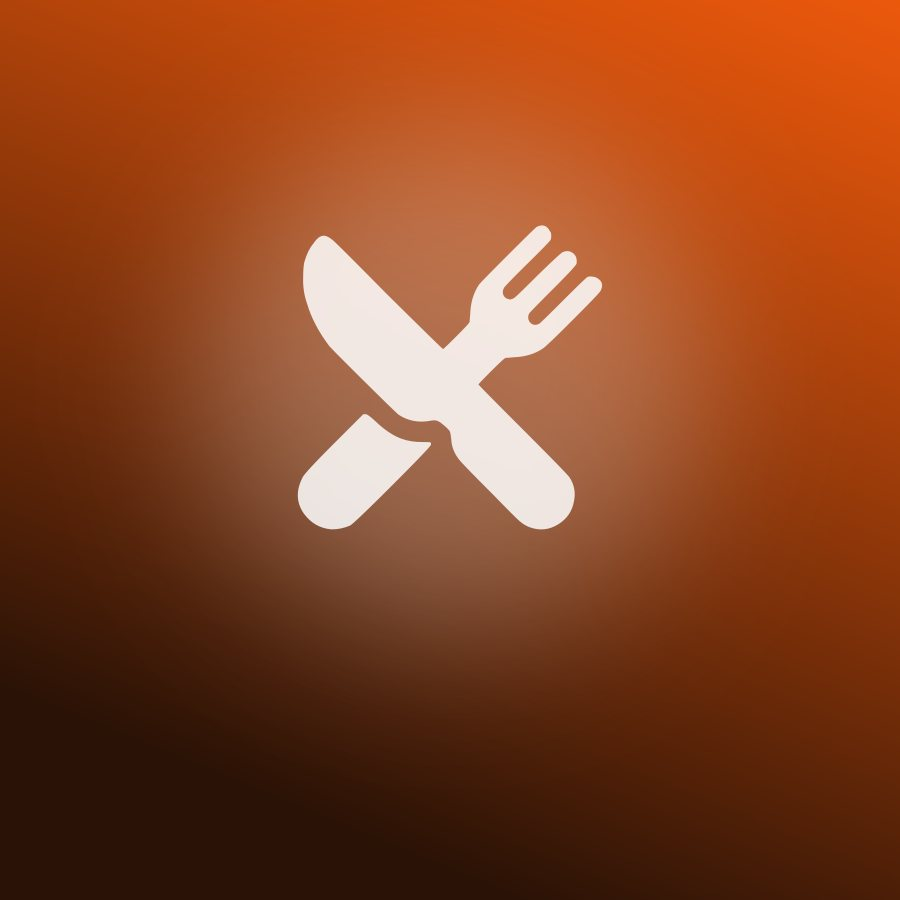
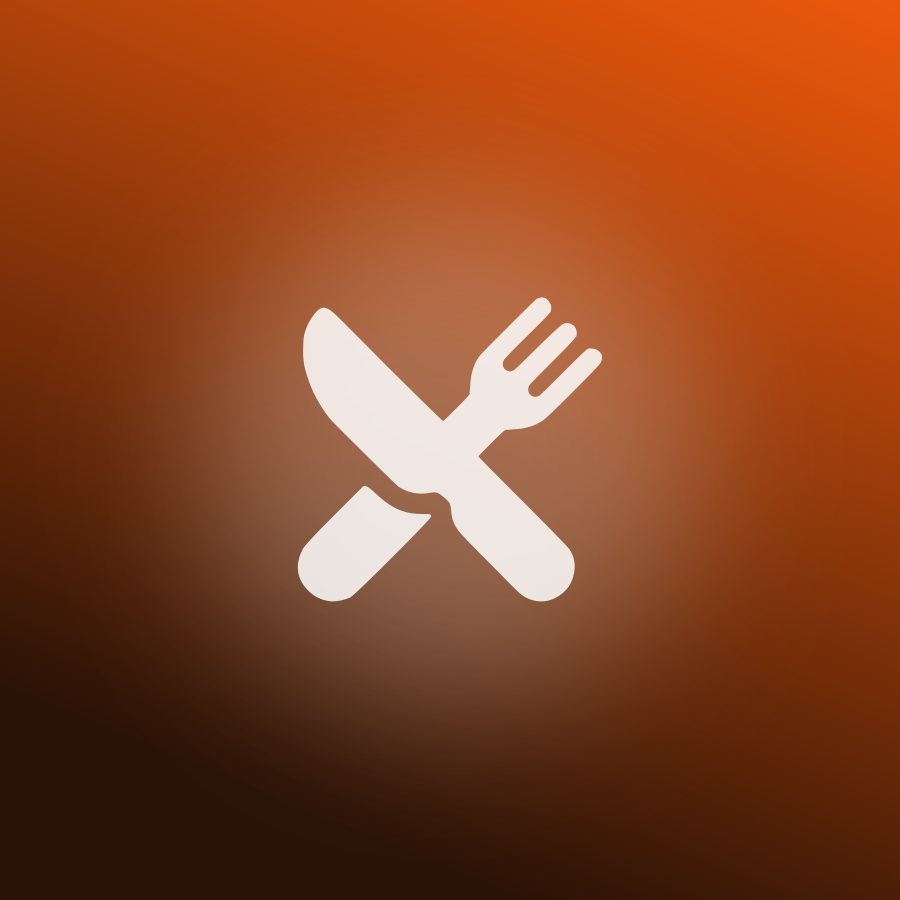
Admins edit the app's own ideas in the app; group sizes read right (#71)
Admins fix the launch ideas from the idea page (the pencil), in the same
form as posting, without signing in as @system:
- Migration: users.official marks the app's own account (only the server
  sets it); admins may see, edit and re-tag official ideas, and nothing
  else of anyone's; activities.import_hash (server-only, like import_key)
- The form, editing an official idea: it keeps its review status (no
  publish choice, promise or same-place check), a photo is optional, and
  there's no delete or unpublish (retire through the files)
- The import marks @system official, stores a fingerprint of what it
  saved, and leaves an idea changed in the app alone (listed; --force
  puts the file's version back). "ACTIVE" in the files is saved as an
  activity (OTHER), like the posting form, which asks effort separately

Also:
- Group size: "2 people", "2–6 people", "4+ people", "Any group size"
  (peopleLabel), not "2 - 2 people"
- Tiles: the icon is centered; the active tile follows effort (a workout)
  or sports and adventure tags, now that Active isn't a type

Changed region(s): [[0.3111, 0.2489, 0.6844, 0.7778], [0.4044, 0.1556, 0.5911, 0.2178]]

diff --git a/mobile-client/app/create/index.tsx b/mobile-client/app/create/index.tsx
@@ -53,11 +53,13 @@ import Ionicons from "@expo/vector-icons/build/Ionicons";
 
 import {supabase} from "@/src/supabase";
 import {useMyIdeasStore} from "@/src/store/useMyIdeasStore";
+import {useProfileStore} from "@/src/store/useProfileStore";
 import {useSavedStore} from "@/src/store/useSavedStore";
 import {usePrefsStore} from "@/src/store/usePrefsStore";
 import {SUSPENDED_MESSAGE, useAccountStore} from "@/src/store/useAccountStore";
 import {confirmDeleteIdea, confirmUnpublishIdea} from "@/src/lib/ideaActions";
 import {POSTER_PROMISE} from "@/src/lib/ideaGuidelines";
+import {peopleLabel} from "@/src/lib/ideas";
 import {RISK_LABELS, SAFETY_NOTE_MAX, type RiskLabel} from "@/src/lib/safety";
 import {WEATHER_NEEDS_OPTIONS, type WeatherNeeds} from "@/src/lib/weatherRules";
 import {TIME_OF_DAY_LABEL, type TimeOfDay} from "@/src/lib/timeOfDay";
@@ -285,6 +287,8 @@ const Hint = ({text, red = false}: {text: string; red?: boolean}) => (
 interface EditingOriginal {
   visibility: BaseActivity["visibility"];
   imageUrls: string[];
+  /** Not yours: one of the app's own ideas, edited by an admin (#71) */
+  official: boolean;
 }
 
 // ─── The screen ────────────────────────────────────────────────────────────────
@@ -295,6 +299,10 @@ export default function CreateScreen() {
   const {ideaId} = useLocalSearchParams<{ideaId?: string}>();
   const editingId = ideaId ? Number(ideaId) : null;
   const [original, setOriginal] = useState<EditingOriginal | null>(null);
+  // An admin fixing one of the app's own ideas (the launch set, #71): it
+  // keeps its review status, a photo is optional, and there's no promise
+  // or publish choice (the database lets admins edit only these)
+  const officialEdit = !!original?.official;
   const [isLoadingIdea, setIsLoadingIdea] = useState(!!editingId);
   // Remounts the tag selector once the idea's tags have loaded
   const [tagsKey, setTagsKey] = useState(0);
@@ -663,7 +671,11 @@ export default function CreateScreen() {
       setTagsKey((k) => k + 1);
       // Saving keeps a private idea private; everything else goes to review
       setVisibility(data.visibility === "PRIVATE" ? "PRIVATE" : "PENDING_REVIEW");
-      setOriginal({visibility: data.visibility, imageUrls: data.image_urls ?? []});
+      setOriginal({
+        visibility: data.visibility,
+        imageUrls: data.image_urls ?? [],
+        official: data.user_id !== useProfileStore.getState().userId,
+      });
       setStep(REVIEW);
       setIsLoadingIdea(false);
     };
@@ -694,7 +706,7 @@ export default function CreateScreen() {
   /** Everything still unanswered */
   const findMissing = (): string[] => {
     const out: string[] = [];
-    if (!imageUri) out.push("image");
+    if (!imageUri && !officialEdit) out.push("image");
     if (!title.trim()) out.push("title");
     if (!whereMode) out.push("where");
     if (whereMode === "PLACE" && !place) out.push("place");
@@ -864,7 +876,7 @@ export default function CreateScreen() {
       return;
     }
 
-    if (visibility === "PENDING_REVIEW" && suspended) {
+    if (visibility === "PENDING_REVIEW" && suspended && !officialEdit) {
       const keepPrivate = await confirm({
         title: "You can't publish right now",
         message: SUSPENDED_MESSAGE,
@@ -876,14 +888,14 @@ export default function CreateScreen() {
     }
 
     // Publishing needs the poster's promise (private ideas don't)
-    if (visibility === "PENDING_REVIEW" && !promised) {
+    if (visibility === "PENDING_REVIEW" && !promised && !officialEdit) {
       setMissingFields(["promise"]);
       warn();
       return;
     }
 
     // Publishing at your own earlier pin: is it a place that's public now?
-    if (publishingAtPlace && place?.kind === "existing") {
+    if (publishingAtPlace && place?.kind === "existing" && !officialEdit) {
       let check = shownCheck;
       if (!check) {
         try {
@@ -920,11 +932,12 @@ export default function CreateScreen() {
       if (modality === "GO_OUT" && place) {
         venueId = place.kind === "existing" ? place.venueId : await addPlace(place);
       }
-      if (!imageUri) throw new Error("Image missing during upload phase");
+      if (!imageUri && !officialEdit) throw new Error("Image missing during upload phase");
 
-      // 2. Photo: upload only if it's new (an edit keeps the existing URL)
+      // 2. Photo: upload only if it's new (an edit keeps the existing URL;
+      //    an official idea can still have none)
       let imageUrls: string[];
-      const photoChanged = !original || imageUri !== original.imageUrls[0];
+      const photoChanged = !!imageUri && (!original || imageUri !== original.imageUrls[0]);
       if (photoChanged) {
         const fileName = `${Date.now()}-${Math.random().toString(36).substring(7)}.jpg`;
         const response = await fetch(imageUri);
@@ -935,7 +948,7 @@ export default function CreateScreen() {
         if (uploadError) throw uploadError;
         imageUrls = [supabase.storage.from("activities").getPublicUrl(fileName).data.publicUrl];
       } else {
-        imageUrls = original!.imageUrls;
+        imageUrls = original?.imageUrls ?? [];
       }
 
       const fields = {
@@ -963,7 +976,8 @@ export default function CreateScreen() {
         min_age: dbMinAge,
         risk_labels: dbRiskLabels,
         safety_note: safetyNote.trim() ? safetyNote.trim().slice(0, SAFETY_NOTE_MAX) : null,
-        visibility,
+        // (an official idea keeps its review status)
+        ...(officialEdit ? {} : {visibility}),
       };
 
       // 3. The idea itself
@@ -973,7 +987,11 @@ export default function CreateScreen() {
           .from("activities")
           // Resubmitting starts a fresh review; keeping it private keeps
           // the last reviewer note for reference
-          .update(visibility === "PENDING_REVIEW" ? {...fields, moderation_note: null, moderation_rules: null} : fields)
+          .update(
+            visibility === "PENDING_REVIEW" && !officialEdit
+              ? {...fields, moderation_note: null, moderation_rules: null}
+              : fields,
+          )
           .eq("idea_id", editingId)
           .select("idea_id")
           .maybeSingle();
@@ -1036,7 +1054,9 @@ export default function CreateScreen() {
       if (editingId) useSavedStore.getState().reload();
 
       // Close the screen, then say so from the one below
-      const done = editingId
+      const done = officialEdit
+        ? ["Changes saved", "It keeps its review status"]
+        : editingId
         ? visibility === "PRIVATE"
           ? ["Changes saved", "Only you can see it"]
           : ["Sent for review", "Live again once it's approved"]
@@ -1081,7 +1101,7 @@ export default function CreateScreen() {
   const peopleText =
     groupSize === "CUSTOM"
       ? minPeople && maxPeople
-        ? `${minPeople}–${maxPeople} people`
+        ? peopleLabel(Number(minPeople), Number(maxPeople))
         : null
       : (PEOPLE_OPTIONS.find((o) => o.value === groupSize)?.label.toLowerCase() ?? null);
   const ageText = ageChoice === 0 ? "all ages" : ageChoice === "OTHER" ? (minAge ? `${minAge}+` : null) : ageChoice ? `${ageChoice}+` : null;
@@ -1919,6 +1939,15 @@ export default function CreateScreen() {
         })}
       </View>
 
+      {officialEdit ? (
+        <View className="flex-row gap-2 bg-zinc-900 border border-zinc-800 rounded-2xl p-3 mb-3">
+          <Ionicons name="shield-checkmark-outline" size={18} color="#a1a1aa" />
+          <Text className="text-zinc-300 text-sm flex-1">
+            {"One of Venture's own ideas. Saving keeps its review status, and the next import leaves your changes alone."}
+          </Text>
+        </View>
+      ) : (
+      <>
       {wasPublished && (
         <View className="flex-row gap-2 bg-amber-500/10 border border-amber-500/30 rounded-2xl p-3 mb-3">
           <Ionicons name="information-circle" size={18} color="#fbbf24" />
@@ -2049,10 +2078,12 @@ export default function CreateScreen() {
         </Pressable>
       )}
       {missing("promise") && <Hint red text="Tick this to send it for review." />}
+      </>
+      )}
 
       {/* EDITING: delete it (live ideas are unpublished first: deleting would
           pull them out of other people's dates and saved lists) */}
-      {editingId && original && (
+      {editingId && original && !officialEdit && (
         <View className="items-center gap-2 mt-6">
           {original.visibility === "PUBLISHED" ? (
             <>
@@ -2103,7 +2134,9 @@ export default function CreateScreen() {
 
   const primary =
     key === "review"
-      ? !editingId
+      ? officialEdit
+        ? "Save changes"
+        : !editingId
         ? visibility === "PRIVATE"
           ? "Save idea"
           : "Submit for review"

diff --git a/mobile-client/app/(tabs)/explore/detail/[id].tsx b/mobile-client/app/(tabs)/explore/detail/[id].tsx
@@ -26,7 +26,7 @@ import {showIdeaMenu} from "@/src/lib/reportIdea";
 import {usePlanSeedStore} from "@/src/store/usePlanSeedStore";
 import {useBuilderStore} from "@/src/store/useBuilderStore";
 import {StatusChip} from "@/components/ideas/IdeaRows";
-import {IDEA_STATUS} from "@/src/lib/ideas";
+import {IDEA_STATUS, peopleLabel} from "@/src/lib/ideas";
 import {WEATHER_NEEDS_OPTIONS} from "@/src/lib/weatherRules";
 import {normalizeTimeOfDay, TIME_OF_DAY_LABEL} from "@/src/lib/timeOfDay";
 import PlaceHours from "@/components/ideas/PlaceHours";
@@ -103,7 +103,7 @@ export default function IdeaDetailScreen() {
             *,
             venues ( venue_id, created_by, name, address, coordinates, opening_hours, hours_checked_at, hours_source, access_note,
               pinned_by:users ( username ) ),
-            users!activities_user_id_fkey ( username ),
+            users!activities_user_id_fkey ( username, official ),
             activity_tags (
               tags ( name )
             )
@@ -197,6 +197,8 @@ export default function IdeaDetailScreen() {
     : null;
   // Your own idea: say where it stands, and offer to edit it
   const isMine = !!myUserId && idea.user_id === myUserId;
+  // The app's own ideas (the launch set, #71): admins edit them here
+  const canEdit = isMine || (staffRole === "ADMIN" && !!idea.users?.official);
   // Staff review: asked for (queue / menu), or tools on and it needs a look
   // (in review, sent back, rejected, or reported). Never on private ideas
   const showReview =
@@ -471,7 +473,7 @@ export default function IdeaDetailScreen() {
                 </Text>
               </View>
               <Text className="text-white font-bold text-lg">
-                {idea.min_people} - {idea.max_people} people
+                {peopleLabel(idea.min_people, idea.max_people)}
               </Text>
             </View>
 
@@ -673,11 +675,11 @@ export default function IdeaDetailScreen() {
         </Pressable>
       </View>
 
-      {/* TOP RIGHT: save, then edit (your own ideas) or ••• (anyone else's)
-          in the corner */}
+      {/* TOP RIGHT: save, then edit (your own ideas, or the app's own for
+          admins) or ••• (anyone else's) in the corner */}
       <View className="absolute top-15 right-4 z-50 flex-row gap-2">
         <SaveButton ideaId={idea.idea_id} size={44} variant="glass" />
-        {isMine ? (
+        {canEdit ? (
           <Pressable
             onPress={editIdea}
             accessibilityRole="button"

diff --git a/mobile-client/src/lib/ideas.ts b/mobile-client/src/lib/ideas.ts
@@ -13,13 +13,14 @@ type IconName = React.ComponentProps<typeof Ionicons>["name"];
 export const IDEA_SUMMARY_COLUMNS = `
   idea_id, title, image_urls, est_price_per_person, est_duration_minutes,
   modality, visibility, moderation_note, moderation_rules, created_at, time_of_day,
-  activity_type, environment,
+  activity_type, environment, exertion,
   venues ( name )
 `;
 
 /** The idea's photo, sized for `displayWidth` points; its kind's tile without one */
 export function ideaImage(
-  idea: Pick<IdeaSummary, "image_urls"> & Partial<Pick<IdeaSummary, "idea_id" | "modality" | "activity_type" | "environment">>,
+  idea: Pick<IdeaSummary, "image_urls"> &
+    Partial<Pick<IdeaSummary, "idea_id" | "modality" | "activity_type" | "environment" | "exertion">>,
   displayWidth: number = IMAGE_SIZE.thumb,
 ): IdeaPicture {
   const photo = idea.image_urls?.[0];
@@ -30,6 +31,19 @@ export function ideaImage(
 export function ideaPrice(idea: Pick<IdeaSummary, "est_price_per_person">) {
   const price = Number(idea.est_price_per_person) || 0;
   return price === 0 ? "Free" : `${formatMoney(price)} pp`;
+}
+
+/** The most people an idea is stored with when it's for any size of group */
+const ANY_GROUP = 20;
+
+/** "2 people", "2–6 people", "4+ people", "Any group size" */
+export function peopleLabel(min: number | null | undefined, max: number | null | undefined): string {
+  const lo = Math.max(1, Number(min) || 1);
+  const hi = Number(max) || ANY_GROUP;
+  if (lo <= 1 && hi >= ANY_GROUP) return "Any group size";
+  if (hi >= ANY_GROUP) return `${lo}+ people`;
+  if (lo === hi) return lo === 1 ? "1 person" : `${lo} people`;
+  return `${lo}–${hi} people`;
 }
 
 /** "45 min", "2h", "1h 30m" */

diff --git a/mobile-client/src/lib/ideaTiles.ts b/mobile-client/src/lib/ideaTiles.ts
@@ -22,6 +22,8 @@ export type TileKind = keyof typeof TILES;
 
 /** Tags that make an idea a show (music, a play, a museum...) */
 const SHOW_TAGS = new Set(["music", "theater", "comedy", "movies", "museums", "festivals"]);
+/** Tags that make it active (with a workout's effort, or the old Active type) */
+const ACTIVE_TAGS = new Set(["sports", "adventure"]);
 
 /** Whatever we know about the idea (lists and rows carry different fields) */
 type TileIdea = {
@@ -29,6 +31,7 @@ type TileIdea = {
   modality?: string | null;
   activity_type?: string | null;
   environment?: string | null;
+  exertion?: string | null;
   tags?: string[] | null;
   activity_tags?: {tags?: {name?: string | null} | null}[] | null;
 } | null | undefined;
@@ -41,7 +44,9 @@ export function tileKind(idea: TileIdea): TileKind {
   if (idea.activity_type === "TREAT") return "treat";
   const tags = idea.tags ?? (idea.activity_tags ?? []).map((at) => at.tags?.name ?? "");
   if (tags.some((t) => SHOW_TAGS.has(t))) return "show";
-  if (idea.activity_type === "ACTIVE") return "active";
+  if (idea.activity_type === "ACTIVE" || idea.exertion === "HARD" || tags.some((t) => ACTIVE_TAGS.has(t))) {
+    return "active";
+  }
   if (idea.environment === "OUTDOOR") return "outdoors";
   return "other";
 }

diff --git a/mobile-client/types/ideas.ts b/mobile-client/types/ideas.ts
@@ -26,6 +26,7 @@ export interface IdeaSummary {
   /** For its tile when there's no photo (src/lib/ideaTiles.ts) */
   activity_type?: string | null;
   environment?: string | null;
+  exertion?: string | null;
   venues?: {name: string} | null;
 }
 

diff --git a/content/ideas/README.md b/content/ideas/README.md
@@ -19,6 +19,12 @@ review status), an unchanged one is left alone. `--import --retire` hides
 official ideas that were taken out of the files. `--import --publish` skips
 the review queue for new ideas (only for ideas you've already checked).
 
+**Fixing an idea in the app:** admins can edit the official account's
+ideas from the idea page (the pencil), with the same form as posting; they
+keep their review status. The next import leaves an idea changed in the app
+alone and lists it: copy the change into its file, or `--import --force` to
+put the file's version back.
+
 Files starting with `_` are examples and never imported: see
 [`_example.json`](_example.json).
 
@@ -47,7 +53,7 @@ Files starting with `_` are examples and never imported: see
 | `status` | `"ready"` (default) or `"draft"` (checked, never imported) |
 | `title` | Up to 60 characters |
 | `description` | What you do and why it's a good date, 40 to 600 characters |
-| `type` | `MEAL`, `TREAT`, `ACTIVE` or `OTHER` |
+| `type` | `MEAL`, `TREAT` or `OTHER` (an activity; `ACTIVE` still works and is saved as `OTHER`, since effort is its own field) |
 | `where` | `"out"` or `"in"` (stay in: no place, it happens at home) |
 | `environment` | `INDOOR`, `OUTDOOR` or `MIXED` (stay in: `INDOOR` unless you say) |
 | `place` | Going out: a place's `id` from `places`, or the place itself (below) |
